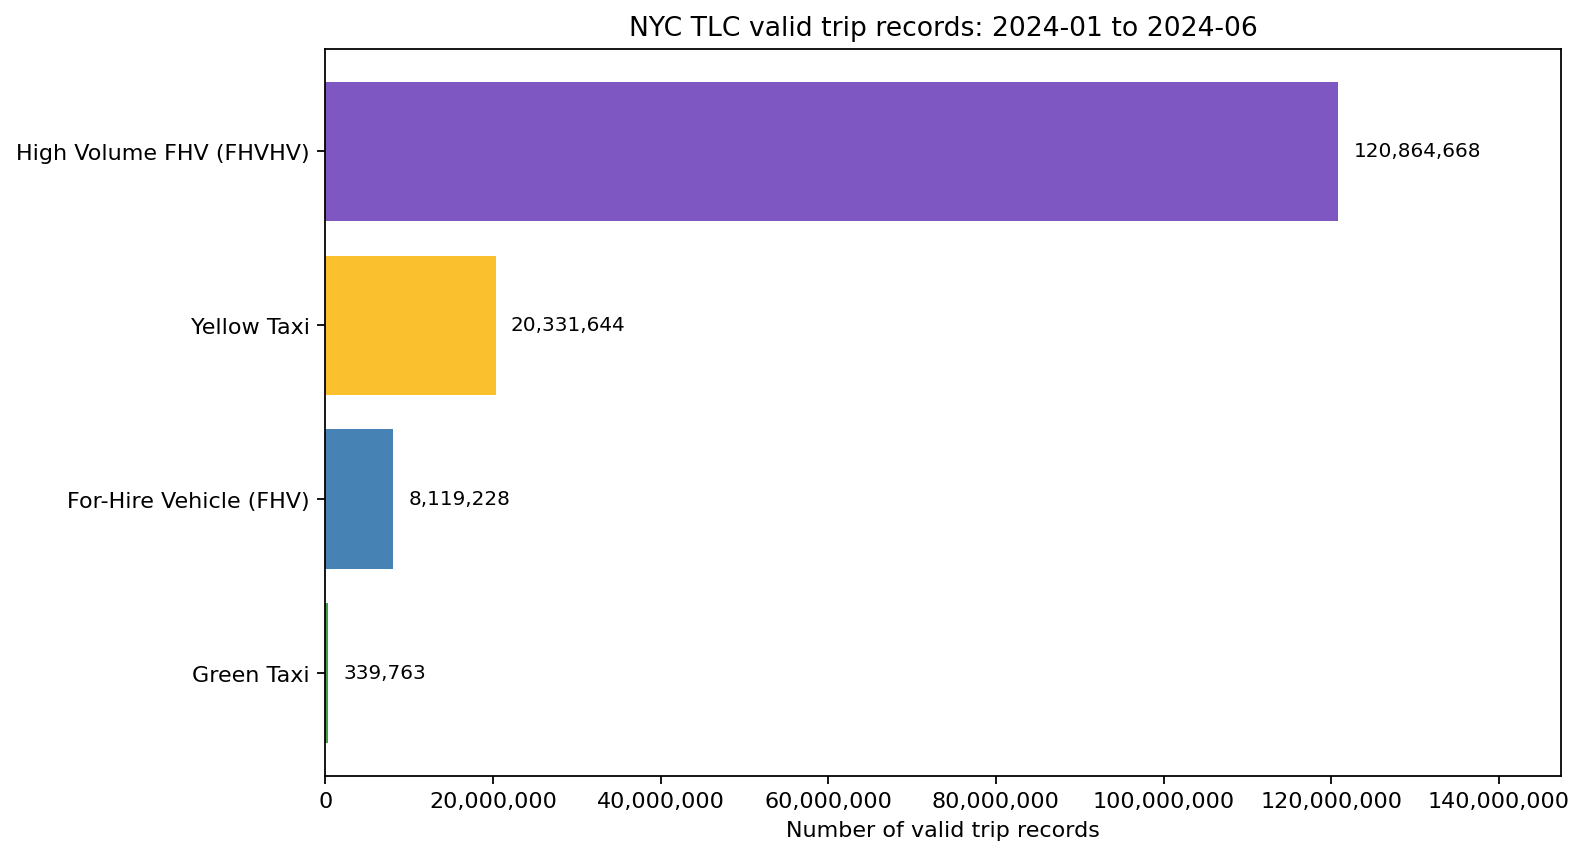
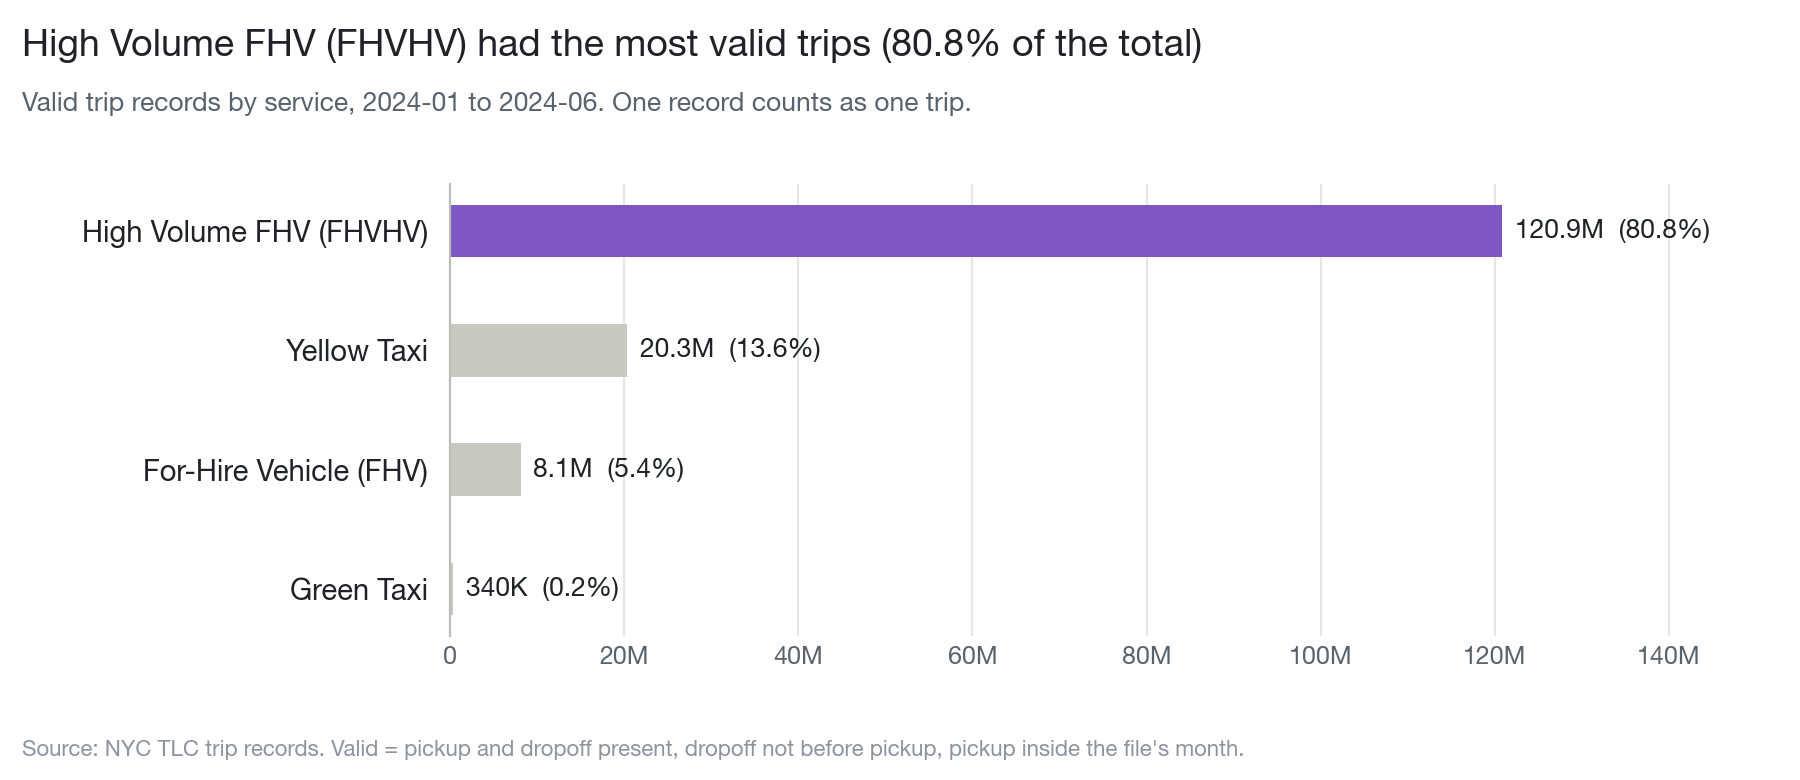
feat(report): redesign the service chart and add monthly share chart (#6)

diff --git a/taxi_pipeline/report.py b/taxi_pipeline/report.py
@@ -8,7 +8,8 @@ import matplotlib
 matplotlib.use("Agg")
 
 import matplotlib.pyplot as plt
-from matplotlib.ticker import StrMethodFormatter
+from matplotlib import font_manager
+from matplotlib.ticker import FuncFormatter
 import pandas as pd
 
 from taxi_pipeline.config import Config
@@ -19,8 +20,163 @@ SERVICE_NAMES = {
     "yellow": "Yellow Taxi", "green": "Green Taxi",
     "fhv": "For-Hire Vehicle (FHV)", "fhvhv": "High Volume FHV (FHVHV)",
 }
-COLORS = {"yellow": "#FBC02D", "green": "#43A047", "fhv": "#4682B4", "fhvhv": "#7E57C2"}
 ANALYSIS_FILES = ("monthly_trip_counts.csv", "trips_by_borough.csv", "service_summary.csv")
+
+# The leader is drawn in the FHVHV purple used since S1; everything else stays gray
+# so the chart reads as one answer instead of four competing colors.
+ACCENT = "#7E57C2"
+MUTED = "#C9C9C4"
+INK = "#1F2328"
+INK_SOFT = "#59636E"
+INK_FAINT = "#8C959F"
+GRID = "#E6E6E3"
+VALID_NOTE = (
+    "Source: NYC TLC trip records. Valid = pickup and dropoff present, "
+    "dropoff not before pickup, pickup inside the file's month."
+)
+
+
+def _font() -> str:
+    installed = {item.name for item in font_manager.fontManager.ttflist}
+    for name in ("Helvetica Neue", "Helvetica", "Arial", "DejaVu Sans"):
+        if name in installed:
+            return name
+    return "DejaVu Sans"
+
+
+def _compact(value: float) -> str:
+    if value >= 1_000_000:
+        return f"{value / 1_000_000:.1f}M"
+    if value >= 1_000:
+        return f"{value / 1_000:.0f}K"
+    return f"{value:,.0f}"
+
+
+def _chart_style() -> dict:
+    return {
+        "font.family": _font(), "font.size": 10, "text.color": INK,
+        "axes.edgecolor": "#BDBDB8", "axes.labelcolor": INK_SOFT,
+        "xtick.color": INK_SOFT, "ytick.color": INK, "figure.facecolor": "white",
+    }
+
+
+def _axis_label(value: float, _position=None) -> str:
+    if value == 0:
+        return "0"
+    if value >= 1_000_000 and value % 1_000_000 == 0:
+        return f"{value / 1_000_000:.0f}M"
+    return _compact(value)
+
+
+def _layout(figure, plot_top: float, plot_bottom: float) -> None:
+    # Margins are set in inches so both charts line up when shown one above the other.
+    height = figure.get_figheight()
+    figure.subplots_adjust(
+        left=0.25, right=0.975, top=1 - plot_top / height, bottom=plot_bottom / height,
+    )
+
+
+def _header(figure, title: str, subtitle: str) -> None:
+    height = figure.get_figheight()
+    figure.text(0.012, 1 - 0.14 / height, title, fontsize=13.5, fontweight="bold",
+                color=INK, va="top")
+    figure.text(0.012, 1 - 0.46 / height, subtitle, fontsize=9.5, color=INK_SOFT, va="top")
+    figure.text(0.012, 0.1 / height, VALID_NOTE, fontsize=8, color=INK_FAINT, va="bottom")
+
+
+def _service_chart(summary: pd.DataFrame, window: dict, path: Path) -> None:
+    names = list(summary["service_name"])
+    values = [int(value) for value in summary["total_trips"]]
+    shares = list(summary["share_percent"])
+    maximum = max(values)
+    leaders = [name for name, value in zip(names, values) if value == maximum]
+    share = sum(s for s, value in zip(shares, values) if value == maximum)
+    with plt.rc_context(_chart_style()):
+        figure, axis = plt.subplots(figsize=(9, 3.9))
+        positions = list(range(len(values)))
+        axis.barh(
+            positions, values, height=0.44, zorder=2,
+            color=[ACCENT if value == maximum else MUTED for value in values],
+        )
+        axis.set_yticks(positions, names)
+        axis.invert_yaxis()
+        axis.tick_params(axis="y", length=0, pad=8, labelsize=10.5)
+        axis.tick_params(axis="x", length=0, labelsize=9)
+        axis.xaxis.set_major_formatter(FuncFormatter(_axis_label))
+        axis.grid(axis="x", color=GRID, linewidth=0.8, zorder=0)
+        for side in ("top", "right", "bottom"):
+            axis.spines[side].set_visible(False)
+        axis.set_xlim(0, maximum * 1.24)
+        for index, (value, part) in enumerate(zip(values, shares)):
+            axis.text(
+                value + maximum * 0.012, index, f"{_compact(value)}  ({part:.1f}%)",
+                va="center", fontsize=9.5, color=INK,
+                fontweight="bold" if value == maximum else "normal",
+            )
+        _header(
+            figure,
+            f"{' and '.join(leaders)} had the most valid trips ({share:.1f}% of the total)",
+            f"Valid trip records by service, {window['start']} to {window['end']}. "
+            "One record counts as one trip.",
+        )
+        _layout(figure, plot_top=0.92, plot_bottom=0.72)
+        figure.savefig(path, dpi=200)
+        plt.close(figure)
+
+
+def _monthly_share_chart(
+    monthly: pd.DataFrame, leader: str, window: dict, path: Path,
+) -> dict:
+    table = monthly.pivot_table(
+        index="pickup_month", columns="service_type", values="number_of_trips",
+        aggfunc="sum", fill_value=0,
+    ).sort_index()
+    share = table[leader] / table.sum(axis=1) * 100
+    leads_every_month = bool((table.idxmax(axis=1) == leader).all())
+    name = SERVICE_NAMES[leader]
+    others = table.shape[1] - 1
+    labels = [pd.Timestamp(f"{month}-01").strftime("%b %Y") for month in table.index]
+    with plt.rc_context(_chart_style()):
+        figure, axis = plt.subplots(figsize=(9, 0.4 * len(labels) + 1.45))
+        positions = list(range(len(labels)))
+        # A white edge is the gap between the two parts of each bar, not a border.
+        axis.barh(positions, share, height=0.6, color=ACCENT, edgecolor="white", linewidth=1.5)
+        axis.barh(
+            positions, 100 - share, left=share, height=0.6, color=MUTED,
+            edgecolor="white", linewidth=1.5,
+        )
+        for index, value in enumerate(share):
+            axis.text(1.2, index, f"{value:.1f}%", va="center", ha="left",
+                      fontsize=9.5, color="white", fontweight="bold")
+            axis.text(98.8, index, f"{100 - value:.1f}%", va="center", ha="right",
+                      fontsize=9, color=INK)
+        axis.set_yticks(positions, labels)
+        axis.invert_yaxis()
+        axis.set_xlim(0, 100)
+        axis.tick_params(axis="y", length=0, pad=8, labelsize=10)
+        axis.set_xticks([])
+        for side in ("top", "right", "bottom", "left"):
+            axis.spines[side].set_visible(False)
+        title = (
+            f"{name} is the largest service in every month"
+            if leads_every_month else f"{name} share of valid trips by month"
+        )
+        rest = (
+            "Only one service is in this run." if others == 0
+            else "Gray is the other service." if others == 1
+            else f"Gray is the other {others} services combined."
+        )
+        _header(
+            figure, title,
+            f"Share of each month's valid trips, {window['start']} to {window['end']}. {rest}",
+        )
+        _layout(figure, plot_top=0.86, plot_bottom=0.5)
+        figure.savefig(path, dpi=200)
+        plt.close(figure)
+    return {
+        "leads_every_month": leads_every_month,
+        "min_share": float(share.min()), "max_share": float(share.max()),
+    }
 
 
 def _literal(value: str) -> str:
@@ -76,25 +232,12 @@ def generate_reports(connection, config, paths, verification) -> dict[Path, Path
     destinations[config.path("outputs") / sample_path.name] = sample_path
 
     window = verification["window"]
-    figure, axis = plt.subplots(figsize=(10, 5.5))
-    values = [int(value) for value in summary["total_trips"]]
-    axis.barh(
-        summary["service_name"], values,
-        color=[COLORS[value] for value in summary["service_type"]],
-    )
-    axis.invert_yaxis()
-    axis.set_title(f"NYC TLC valid trip records: {window['start']} to {window['end']}")
-    axis.set_xlabel("Number of valid trip records")
-    axis.xaxis.set_major_formatter(StrMethodFormatter("{x:,.0f}"))
-    maximum = max(values)
-    axis.set_xlim(0, maximum * 1.22)
-    for index, value in enumerate(values):
-        axis.text(value + maximum * 0.015, index, f"{value:,}", va="center", fontsize=9)
-    figure.tight_layout()
     chart = staging / "trips_by_service.png"
-    figure.savefig(chart, dpi=160, bbox_inches="tight")
-    plt.close(figure)
+    _service_chart(summary, window, chart)
     destinations[config.path("outputs") / chart.name] = chart
+    month_chart = staging / "share_by_month.png"
+    monthly_view = _monthly_share_chart(monthly, summary.iloc[0]["service_type"], window, month_chart)
+    destinations[config.path("outputs") / month_chart.name] = month_chart
 
     winners = summary[summary["total_trips"] == summary["total_trips"].max()]
     names = ", ".join(winners["service_name"])
@@ -115,6 +258,11 @@ def generate_reports(connection, config, paths, verification) -> dict[Path, Path
     for row in summary.itertuples(index=False):
         lines.append(f"| {row.service_name} | {int(row.total_trips):,} | {row.share_percent:.2f}% |")
     totals = verification["totals"]
+    if monthly_view["leads_every_month"] and summary["months"].max() > 1:
+        lines.extend([
+            "", f"เมื่อแยกดูรายเดือน {names} ยังมากที่สุดทุกเดือน โดยมีสัดส่วน "
+            f"{monthly_view['min_share']:.1f}% ถึง {monthly_view['max_share']:.1f}% ของ valid trips ในเดือนนั้น",
+        ])
     lines.extend([
         "", f"รวม valid trips: {totals['valid_rows']:,} เที่ยว",
         f"Raw records: {totals['raw_rows']:,} แถว; rejected: {totals['rejected_rows']:,} แถว",
@@ -124,7 +272,7 @@ def generate_reports(connection, config, paths, verification) -> dict[Path, Path
         "ที่มาและผลตรวจอยู่ใน monthly_trip_counts.csv, quality_report.csv และ verify_run.json",
     ])
     answer = staging / "answer.md"
-    answer.write_text("\n".join(lines) + "\n", encoding="utf-8")
+    answer.write_text("\n".join(lines) + "\n", encoding="utf-8", newline="\n")
     destinations[config.path("outputs") / answer.name] = answer
     return destinations
 
@@ -138,7 +286,7 @@ def publish_artifacts(config: Config, destinations: dict[Path, Path]) -> dict:
         staged.replace(destination)
         if sha256_file(destination) != digest:
             raise ValueError(f"Published artifact checksum differs: {destination}")
-        receipts[str(destination.relative_to(config.root))] = {"sha256": digest, "size": size}
+        receipts[destination.relative_to(config.root).as_posix()] = {"sha256": digest, "size": size}
     return receipts
 
 
@@ -171,7 +319,7 @@ def _capture_evidence(config: Config, label: str) -> Path:
     summary = {
         **run,
         "analysis_hashes": {
-            name: proof["artifacts"][str((config.path("outputs") / name).relative_to(config.root))]["sha256"]
+            name: proof["artifacts"][(config.path("outputs") / name).relative_to(config.root).as_posix()]["sha256"]
             for name in ANALYSIS_FILES
         },
     }

diff --git a/outputs/answer.md b/outputs/answer.md
@@ -15,6 +15,8 @@
 | For-Hire Vehicle (FHV) | 8,119,228 | 5.43% |
 | Green Taxi | 339,763 | 0.23% |
 
+เมื่อแยกดูรายเดือน High Volume FHV (FHVHV) ยังมากที่สุดทุกเดือน โดยมีสัดส่วน 79.7% ถึง 82.0% ของ valid trips ในเดือนนั้น
+
 รวม valid trips: 149,655,303 เที่ยว
 Raw records: 149,655,796 แถว; rejected: 493 แถว
 ผลเทียบ baseline S1: MATCH
